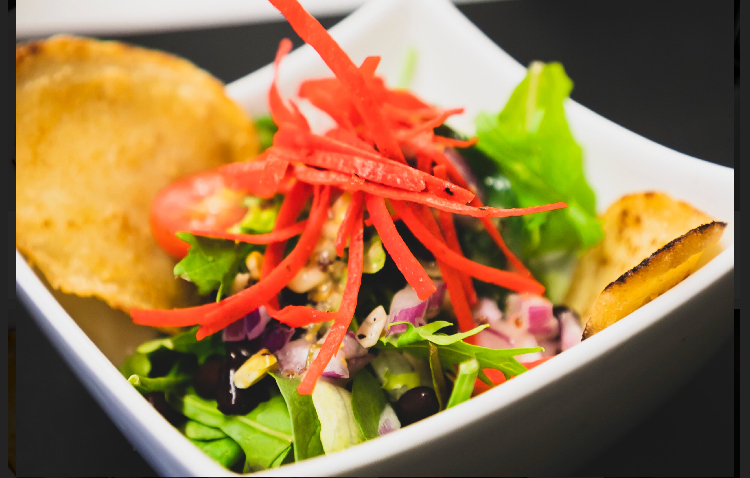
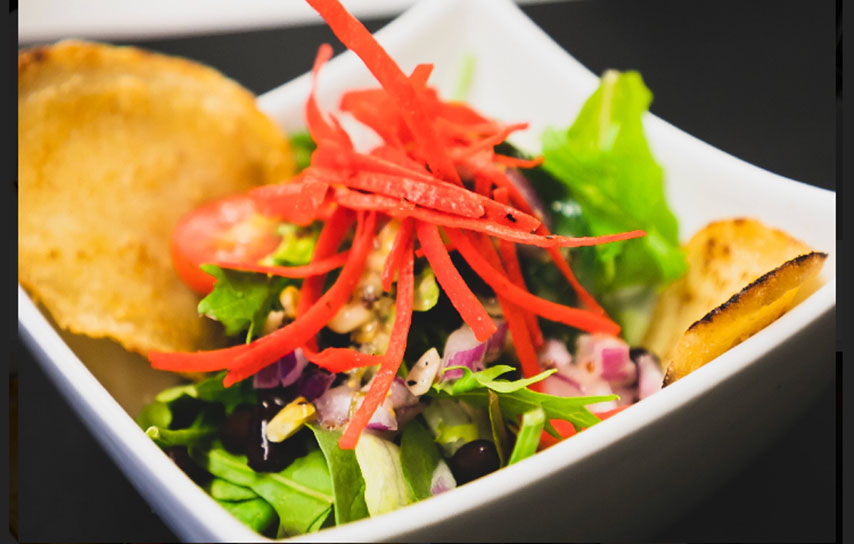
resized photos in carousel

Changed region(s): [[0.2147, 0.9958, 0.46, 1.0]]

diff --git a/index.html b/index.html
@@ -50,6 +50,7 @@ background-size: cover;
   max-width: 100%;
   position: center;
   margin: auto;
+  outline: 2px green;
 }
 
 /* Caption text */
@@ -118,6 +119,10 @@ group img {
    width: 65%;
 }
 
+h5 {
+  color: white;
+}
+
 </style>
 </head>
 
@@ -151,19 +156,7 @@ group img {
 
 <div class="mySlides fade">
   <div class="numbertext"></div>
-  <img src="IMG_0857.jpg" style="width:70%">
-  <!-- <div class="text">noble tees</div> -->
-</div>
-
-<div class="mySlides fade">
-  <div class="numbertext"></div>
   <img src="IMG_0681.jpg" style="width:70%">
-  <!-- <div class="text">noble tees</div> -->
-</div>
-
-<div class="mySlides fade">
-  <div class="numbertext"></div>
-  <img src="IMG_0446.jpg" style="width:70%">
   <!-- <div class="text">noble tees</div> -->
 </div>
 
@@ -202,8 +195,7 @@ group img {
   <span class="dot"></span>
   <span class="dot"></span>
   <span class="dot"></span>
-  <span class="dot"></span>
-  <span class="dot"></span>
+
 </div>
 
 <script>
